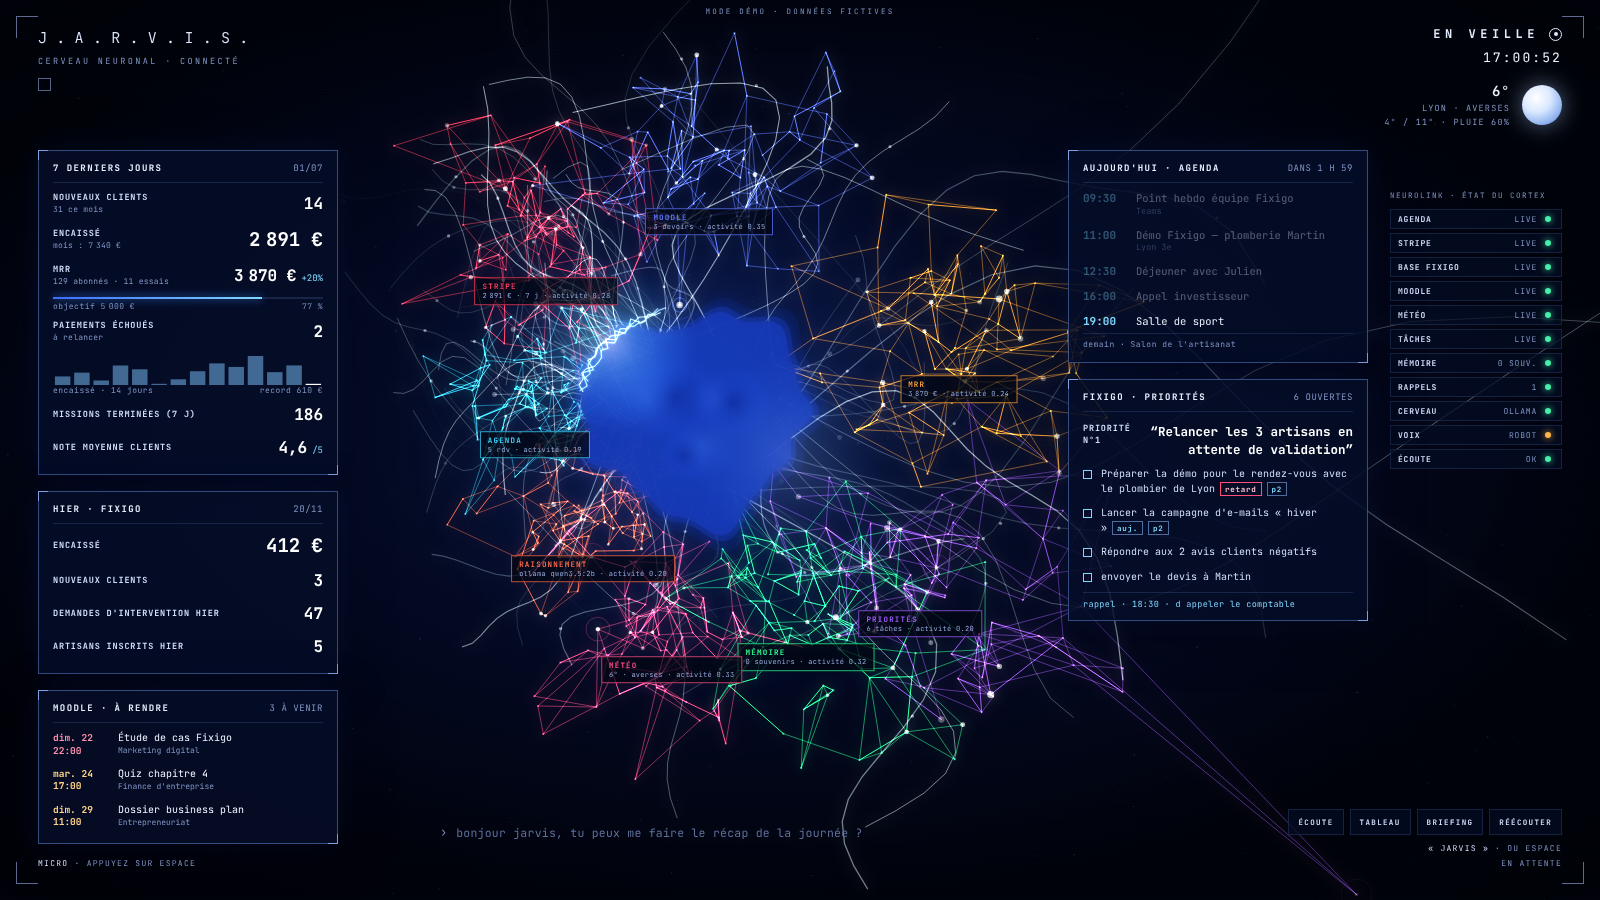
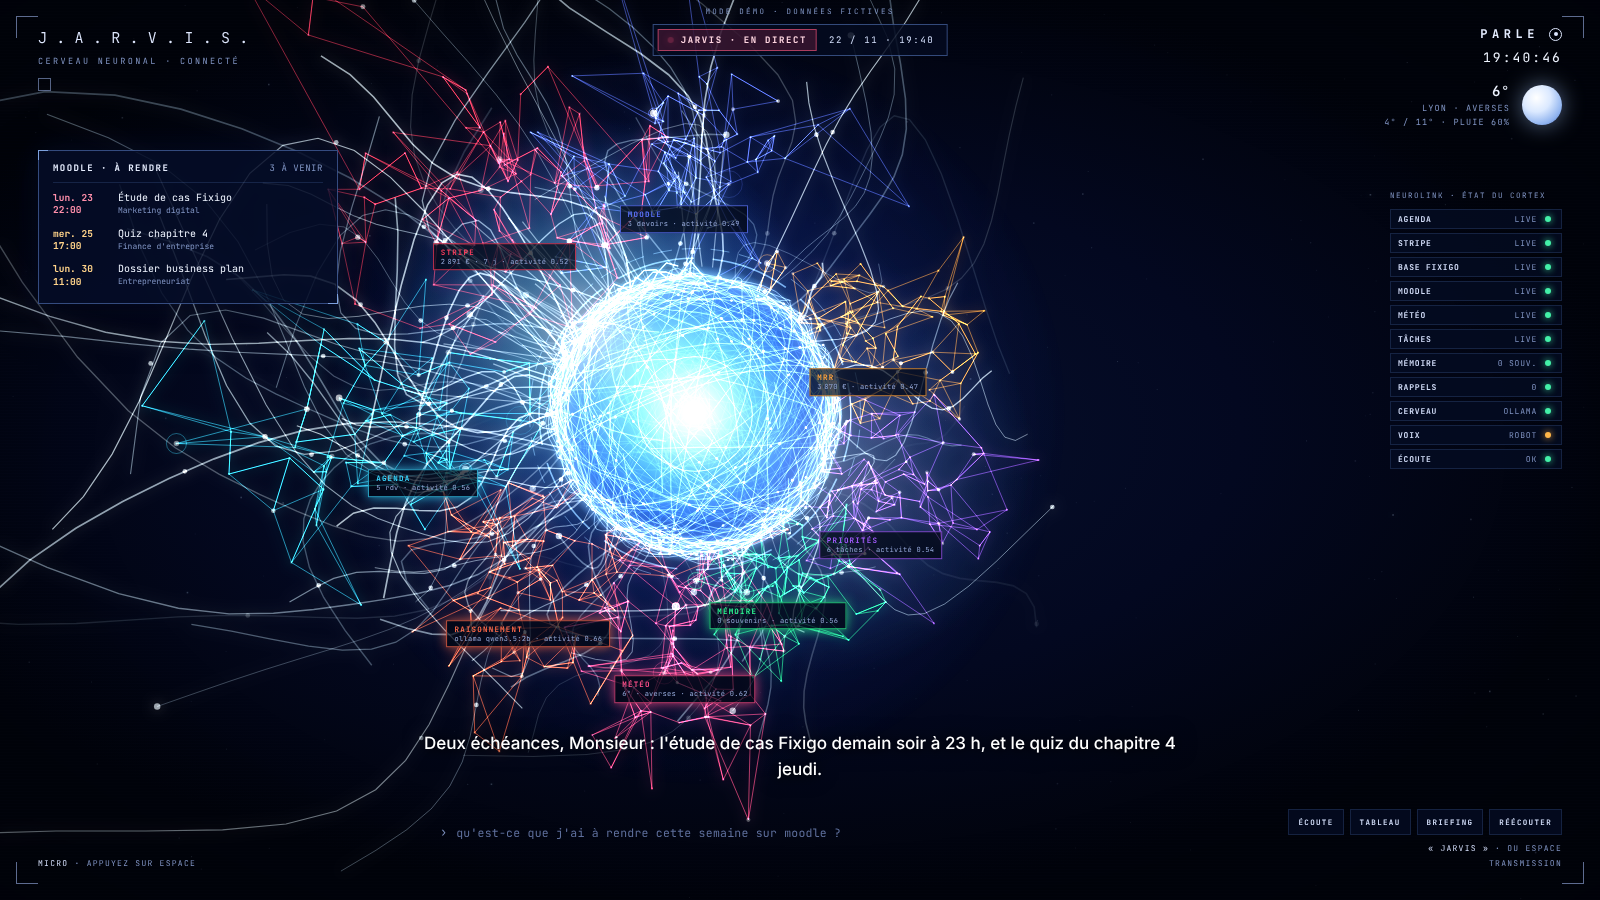
Sphère centrale plus grande et nette, faite de fils, cœur de réacteur et anneaux (inspiré d'OpenJarvis)
Claude-Session: https://claude.ai/code/session_01DKoxfKHzRcH3b2eyDqtUH6

diff --git a/jarvis_thibault/static/index.html b/jarvis_thibault/static/index.html
@@ -492,6 +492,10 @@ const CERVEAU=(function(){
     return{a,dx,dy,zz,L,cur:rnd(-1.6,1.6),amp:rnd(.35,1.15),fq:rnd(.9,2.5),ph:rnd(0,6.28),v:rnd(.12,.36),w:rnd(.45,1.25),b:Math.random(),
       ne:performance.now()/1000,vie:vers!=null?rnd(2.5,4):rnd(4,10),pousse:rnd(.5,1.4),region:vers,chaud:vers!=null}}
   for(let i=0;i<NF;i++){const f=nouveauFil();f.ne-=rnd(0,f.vie);fils.push(f)}
+  const fibres=Array.from({length:mob?70:150},()=>{const u=rnd(-1,1),t=rnd(0,6.2832),q=Math.sqrt(1-u*u),n=[Math.cos(t)*q,u,Math.sin(t)*q];
+    let a=Math.abs(n[1])<.9?[0,1,0]:[1,0,0];const dt=a[0]*n[0]+a[1]*n[1]+a[2]*n[2];a=[a[0]-dt*n[0],a[1]-dt*n[1],a[2]-dt*n[2]];const la=Math.hypot(...a);a=a.map(x=>x/la);
+    const b=[n[1]*a[2]-n[2]*a[1],n[2]*a[0]-n[0]*a[2],n[0]*a[1]-n[1]*a[0]];
+    return{a,b,r:rnd(.9,1.01),ph:rnd(0,6.2832),v:rnd(-.3,.3),ext:rnd(.35,.95)*6.2832}});
   const etincelles=[],ondes=[];
   const etoiles=Array.from({length:mob?90:220},()=>[Math.random(),Math.random(),Math.random()]);
   let proj=null,S=1,C={x:0,y:0},cache={},dernierT=0,PN=[],flash=0;
@@ -551,32 +555,48 @@ const CERVEAU=(function(){
     // ondes de choc (événements)
     for(let k=ondes.length-1;k>=0;k--){const o=ondes[k],age=(tt-o.t)/1.6;if(age>1){ondes.splice(k,1);continue}
       g.strokeStyle=hexA(pal[o.col],(1-age)*.6);g.lineWidth=2*(1-age)+.5;g.beginPath();g.ellipse(C.x,C.y,S*(1.1+age*3),S*(1+age*2.7),0,0,6.2832);g.stroke()}
-    // noyau : nuage bleu plat, bords irréguliers et mouvants
-    g.globalCompositeOperation="source-over";
-    const forme=(ech,col,al)=>{g.beginPath();for(let i=0;i<=96;i++){const an=i/96*6.2832,
-        rr=S*ech*(1+.09*Math.sin(an*3+tt*.6)+.06*Math.sin(an*5-tt*.9)+.045*Math.sin(an*9+tt*1.4)+.03*Math.sin(an*14-tt*.8)+L*.06*Math.sin(an*6+tt*7));
-        const x=C.x+Math.cos(an)*rr*1.1,y=C.y+Math.sin(an)*rr;i?g.lineTo(x,y):g.moveTo(x,y)}g.globalAlpha=al;g.fillStyle=col;g.fill();g.globalAlpha=1};
-    forme(1.14,"#1a3ab8",.12);forme(1.05,"#1735ad",.38);forme(1,"#132c96",.94);
-    for(let k=0;k<6;k++){const an=k*1.05+tt*.12*(k%2?1:-1),d=S*(.25+.3*((k*37)%10)/10),x=C.x+Math.cos(an)*d,y=C.y+Math.sin(an)*d*.9,rr=S*(.35+.1*Math.sin(tt*.7+k));
-      gr=g.createRadialGradient(x,y,0,x,y,rr);gr.addColorStop(0,k%2?"rgba(6,18,95,.5)":"rgba(70,120,255,.2)");gr.addColorStop(1,"rgba(30,70,230,0)");
-      g.fillStyle=gr;g.beginPath();g.arc(x,y,rr,0,6.2832);g.fill()}
+    // noyau : sphère nette faite de fils (pelote lumineuse)
+    const SN=S*1.32;g.globalCompositeOperation="source-over";
+    gr=g.createRadialGradient(C.x-SN*.28,C.y-SN*.3,SN*.05,C.x,C.y,SN);gr.addColorStop(0,"#2f63ff");gr.addColorStop(.55,"#1638c4");gr.addColorStop(.92,"#0b1f86");gr.addColorStop(1,"#163cc8");
+    g.fillStyle=gr;g.beginPath();g.arc(C.x,C.y,SN,0,6.2832);g.fill();
+    g.globalCompositeOperation="lighter";const arriere=new Path2D(),avant=new Path2D(),points=[];
+    fibres.forEach(f=>{const d0=f.ph+tt*f.v,N=34;let prev=null;
+      for(let i=0;i<=N;i++){const th=d0+f.ext*i/N,w=f.r*(1+.025*Math.sin(th*5+tt*1.3+f.ph)+L*.04*Math.sin(th*9+tt*8)),
+          P=proj([1.32*w*(f.a[0]*Math.cos(th)+f.b[0]*Math.sin(th)),1.32*w*(f.a[1]*Math.cos(th)+f.b[1]*Math.sin(th)),1.32*w*(f.a[2]*Math.cos(th)+f.b[2]*Math.sin(th))]);
+        if(prev){const chemin=(prev[2]+P[2])<0?avant:arriere;chemin.moveTo(prev[0],prev[1]);chemin.lineTo(P[0],P[1])}
+        if(i%11===5&&P[2]<0)points.push(P);prev=P}});
+    g.lineWidth=.6;g.strokeStyle=`rgba(90,150,255,${.22+L*.2})`;g.stroke(arriere);
+    g.lineWidth=.9;g.strokeStyle=`rgba(165,215,255,${.5+L*.35})`;g.stroke(avant);
+    g.fillStyle=`rgba(235,248,255,${.75+L*.25})`;points.forEach(P=>{g.beginPath();g.arc(P[0],P[1],1.3,0,6.2832);g.fill()});
+    gr=g.createRadialGradient(C.x,C.y,SN*.82,C.x,C.y,SN*1.08);gr.addColorStop(0,"rgba(60,130,255,0)");gr.addColorStop(.75,`rgba(110,180,255,${.28+L*.25})`);gr.addColorStop(1,"rgba(60,130,255,0)");
+    g.fillStyle=gr;g.beginPath();g.arc(C.x,C.y,SN*1.08,0,6.2832);g.fill();
+    g.strokeStyle=`rgba(185,225,255,${.55+L*.3})`;g.lineWidth=1.1;g.beginPath();g.arc(C.x,C.y,SN,0,6.2832);g.stroke();
+    // cœur du réacteur (inspiré du logo OpenJarvis) : pulse avec la voix
+    const pouls=1+.06*Math.sin(tt*2.2)+L*.5,RC=SN*.34*pouls;
+    gr=g.createRadialGradient(C.x,C.y,0,C.x,C.y,RC*2.2);gr.addColorStop(0,`rgba(255,255,255,${.85+L*.15})`);gr.addColorStop(.18,`rgba(200,245,255,${.75})`);
+    gr.addColorStop(.45,`rgba(90,200,255,${.35+L*.25})`);gr.addColorStop(1,"rgba(40,110,255,0)");g.fillStyle=gr;g.beginPath();g.arc(C.x,C.y,RC*2.2,0,6.2832);g.fill();
+    g.strokeStyle=`rgba(190,240,255,${.55+L*.3})`;g.lineWidth=1;g.beginPath();g.arc(C.x,C.y,RC*.95,0,6.2832);g.stroke();
+    // anneaux segmentés qui tournent autour de la sphère
+    [[SN*1.13,tt*.12,10,.06,1.6,.55],[SN*1.2,-tt*.07,36,.03,.8,.4],[SN*.62,-tt*.25,8,.12,1.2,.35]].forEach(([r,rot,n,trou,lw,al])=>{
+      g.strokeStyle=`rgba(150,210,255,${al+L*.3})`;g.lineWidth=lw;
+      for(let i=0;i<n;i++){const a0=rot+i/n*6.2832+trou,a1=rot+(i+1)/n*6.2832-trou;g.beginPath();g.arc(C.x,C.y,r,a0,a1);g.stroke()}});
     // bande électrique sur le bord (crépite, explose quand Jarvis parle ou par moments)
     g.globalCompositeOperation="lighter";
     const ra=Math.PI+Math.sin(tt*.3)*.6+Math.sin(tt*.07)*.4;angleEclat=ra;
     if(Math.random()<.0035)flash=1;flash*=.93;
     const force=.55+L*1.2+flash*1.2+(mode==="reflexion"?.25:0),span=.55+L*.55+flash*.4;
-    const rx=C.x+Math.cos(ra)*S*1.12,ry=C.y+Math.sin(ra)*S;gr=g.createRadialGradient(rx,ry,0,rx,ry,S*(.75+L*1.6+flash*1.4));
+    const rx=C.x+Math.cos(ra)*SN*1.12,ry=C.y+Math.sin(ra)*S;gr=g.createRadialGradient(rx,ry,0,rx,ry,SN*(.75+L*1.6+flash*1.4));
     gr.addColorStop(0,`rgba(255,255,255,${Math.min(.95,.3+L*.45+flash*.45)})`);gr.addColorStop(.3,`rgba(130,220,255,${Math.min(.7,.18+L*.35+flash*.3)})`);gr.addColorStop(1,"rgba(40,120,255,0)");
-    g.fillStyle=gr;g.beginPath();g.arc(rx,ry,S*(.75+L*1.6+flash*1.4),0,6.2832);g.fill();
+    g.fillStyle=gr;g.beginPath();g.arc(rx,ry,SN*(.75+L*1.6+flash*1.4),0,6.2832);g.fill();
     for(let k=0;k<3;k++){const a0=ra-span+Math.random()*.25,a1=ra+span-Math.random()*.25,pts=[];
-      for(let i=0;i<=18;i++){const an=a0+(a1-a0)*i/18,j=(Math.random()-.5)*S*.09*(1+L+flash),rr=S*1.05+j;pts.push([C.x+Math.cos(an)*rr*1.1,C.y+Math.sin(an)*rr])}
+      for(let i=0;i<=18;i++){const an=a0+(a1-a0)*i/18,j=(Math.random()-.5)*SN*.09*(1+L+flash),rr=SN*1.05+j;pts.push([C.x+Math.cos(an)*rr,C.y+Math.sin(an)*rr])}
       [[4*(1+L),`rgba(80,190,255,${Math.min(.4,.12*force)})`],[1.6,`rgba(170,232,255,${Math.min(.8,.4*force)})`],[.8,`rgba(255,255,255,${Math.min(1,.95*force)})`]].forEach(([lw,c])=>{
         g.lineWidth=lw;g.strokeStyle=c;g.beginPath();pts.forEach((p,i)=>i?g.lineTo(p[0],p[1]):g.moveTo(p[0],p[1]));g.stroke()})}
     g.strokeStyle=`rgba(225,247,255,${Math.min(.9,.4*force)})`;g.lineWidth=1.2;g.beginPath();
-    for(let k=0;k<6+L*36+flash*40;k++){const an=ra+rnd(-span,span),r0=S*1.07,len=S*rnd(.12,.55)*(1+L*1.6+flash),x0=C.x+Math.cos(an)*r0*1.1,y0=C.y+Math.sin(an)*r0;
+    for(let k=0;k<6+L*36+flash*40;k++){const an=ra+rnd(-span,span),r0=SN*1.07,len=SN*rnd(.12,.55)*(1+L*1.6+flash),x0=C.x+Math.cos(an)*r0,y0=C.y+Math.sin(an)*r0;
       g.moveTo(x0,y0);g.lineTo(x0+Math.cos(an+rnd(-.3,.3))*len,y0+Math.sin(an+rnd(-.3,.3))*len)}g.stroke();
-    const rb=ra+Math.PI*.9+Math.sin(tt*.5)*.3,bx=C.x+Math.cos(rb)*S*1.05,by=C.y+Math.sin(rb)*S*.95;gr=g.createRadialGradient(bx,by,0,bx,by,S*(.9+L*1.2));
-    gr.addColorStop(0,`rgba(220,245,255,${.08+L*.3})`);gr.addColorStop(1,"rgba(60,140,255,0)");g.fillStyle=gr;g.beginPath();g.arc(bx,by,S*(.9+L*1.2),0,6.2832);g.fill();
+    const rb=ra+Math.PI*.9+Math.sin(tt*.5)*.3,bx=C.x+Math.cos(rb)*SN*1.05,by=C.y+Math.sin(rb)*SN*.95;gr=g.createRadialGradient(bx,by,0,bx,by,SN*(.9+L*1.2));
+    gr.addColorStop(0,`rgba(220,245,255,${.08+L*.3})`);gr.addColorStop(1,"rgba(60,140,255,0)");g.fillStyle=gr;g.beginPath();g.arc(bx,by,SN*(.9+L*1.2),0,6.2832);g.fill();
     g.globalCompositeOperation="source-over";
     if(lueur){const lw=Math.max(1,innerWidth/2|0),lh=Math.max(1,innerHeight/2|0);if(lueur.width!==lw||lueur.height!==lh){lueur.width=lw;lueur.height=lh}
       lg.globalCompositeOperation="copy";lg.drawImage(cv,0,0,lw,lh)}}
